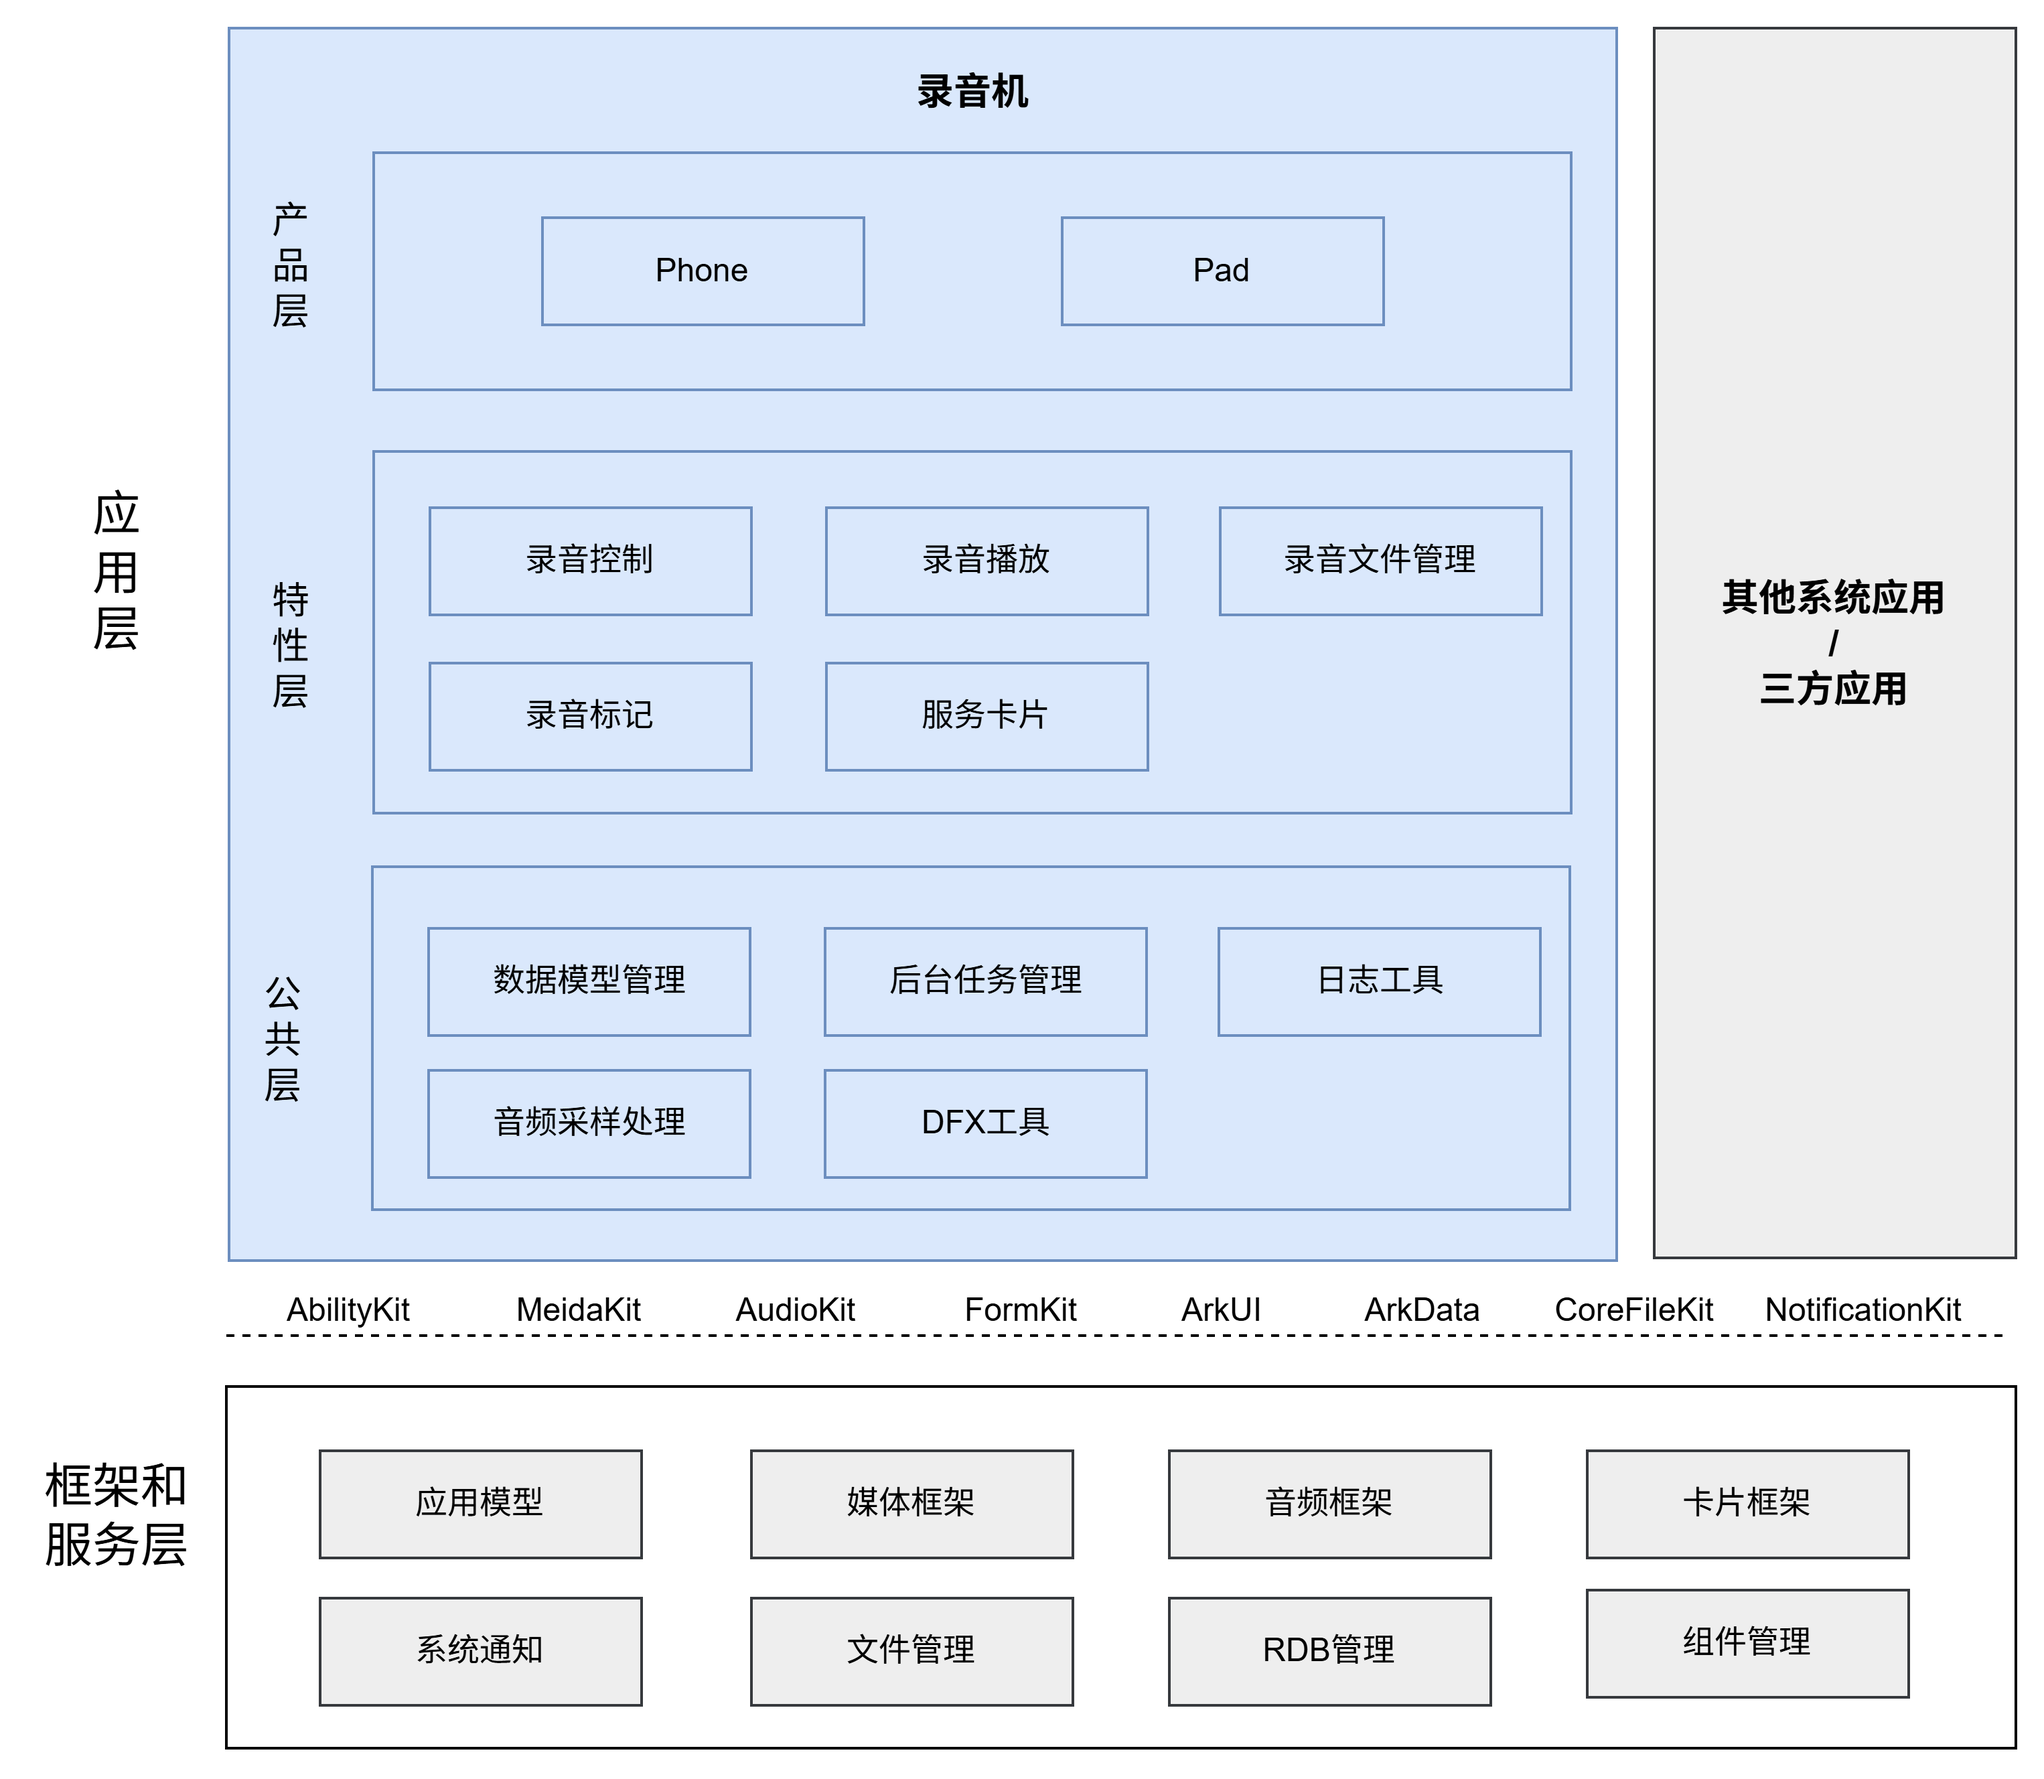
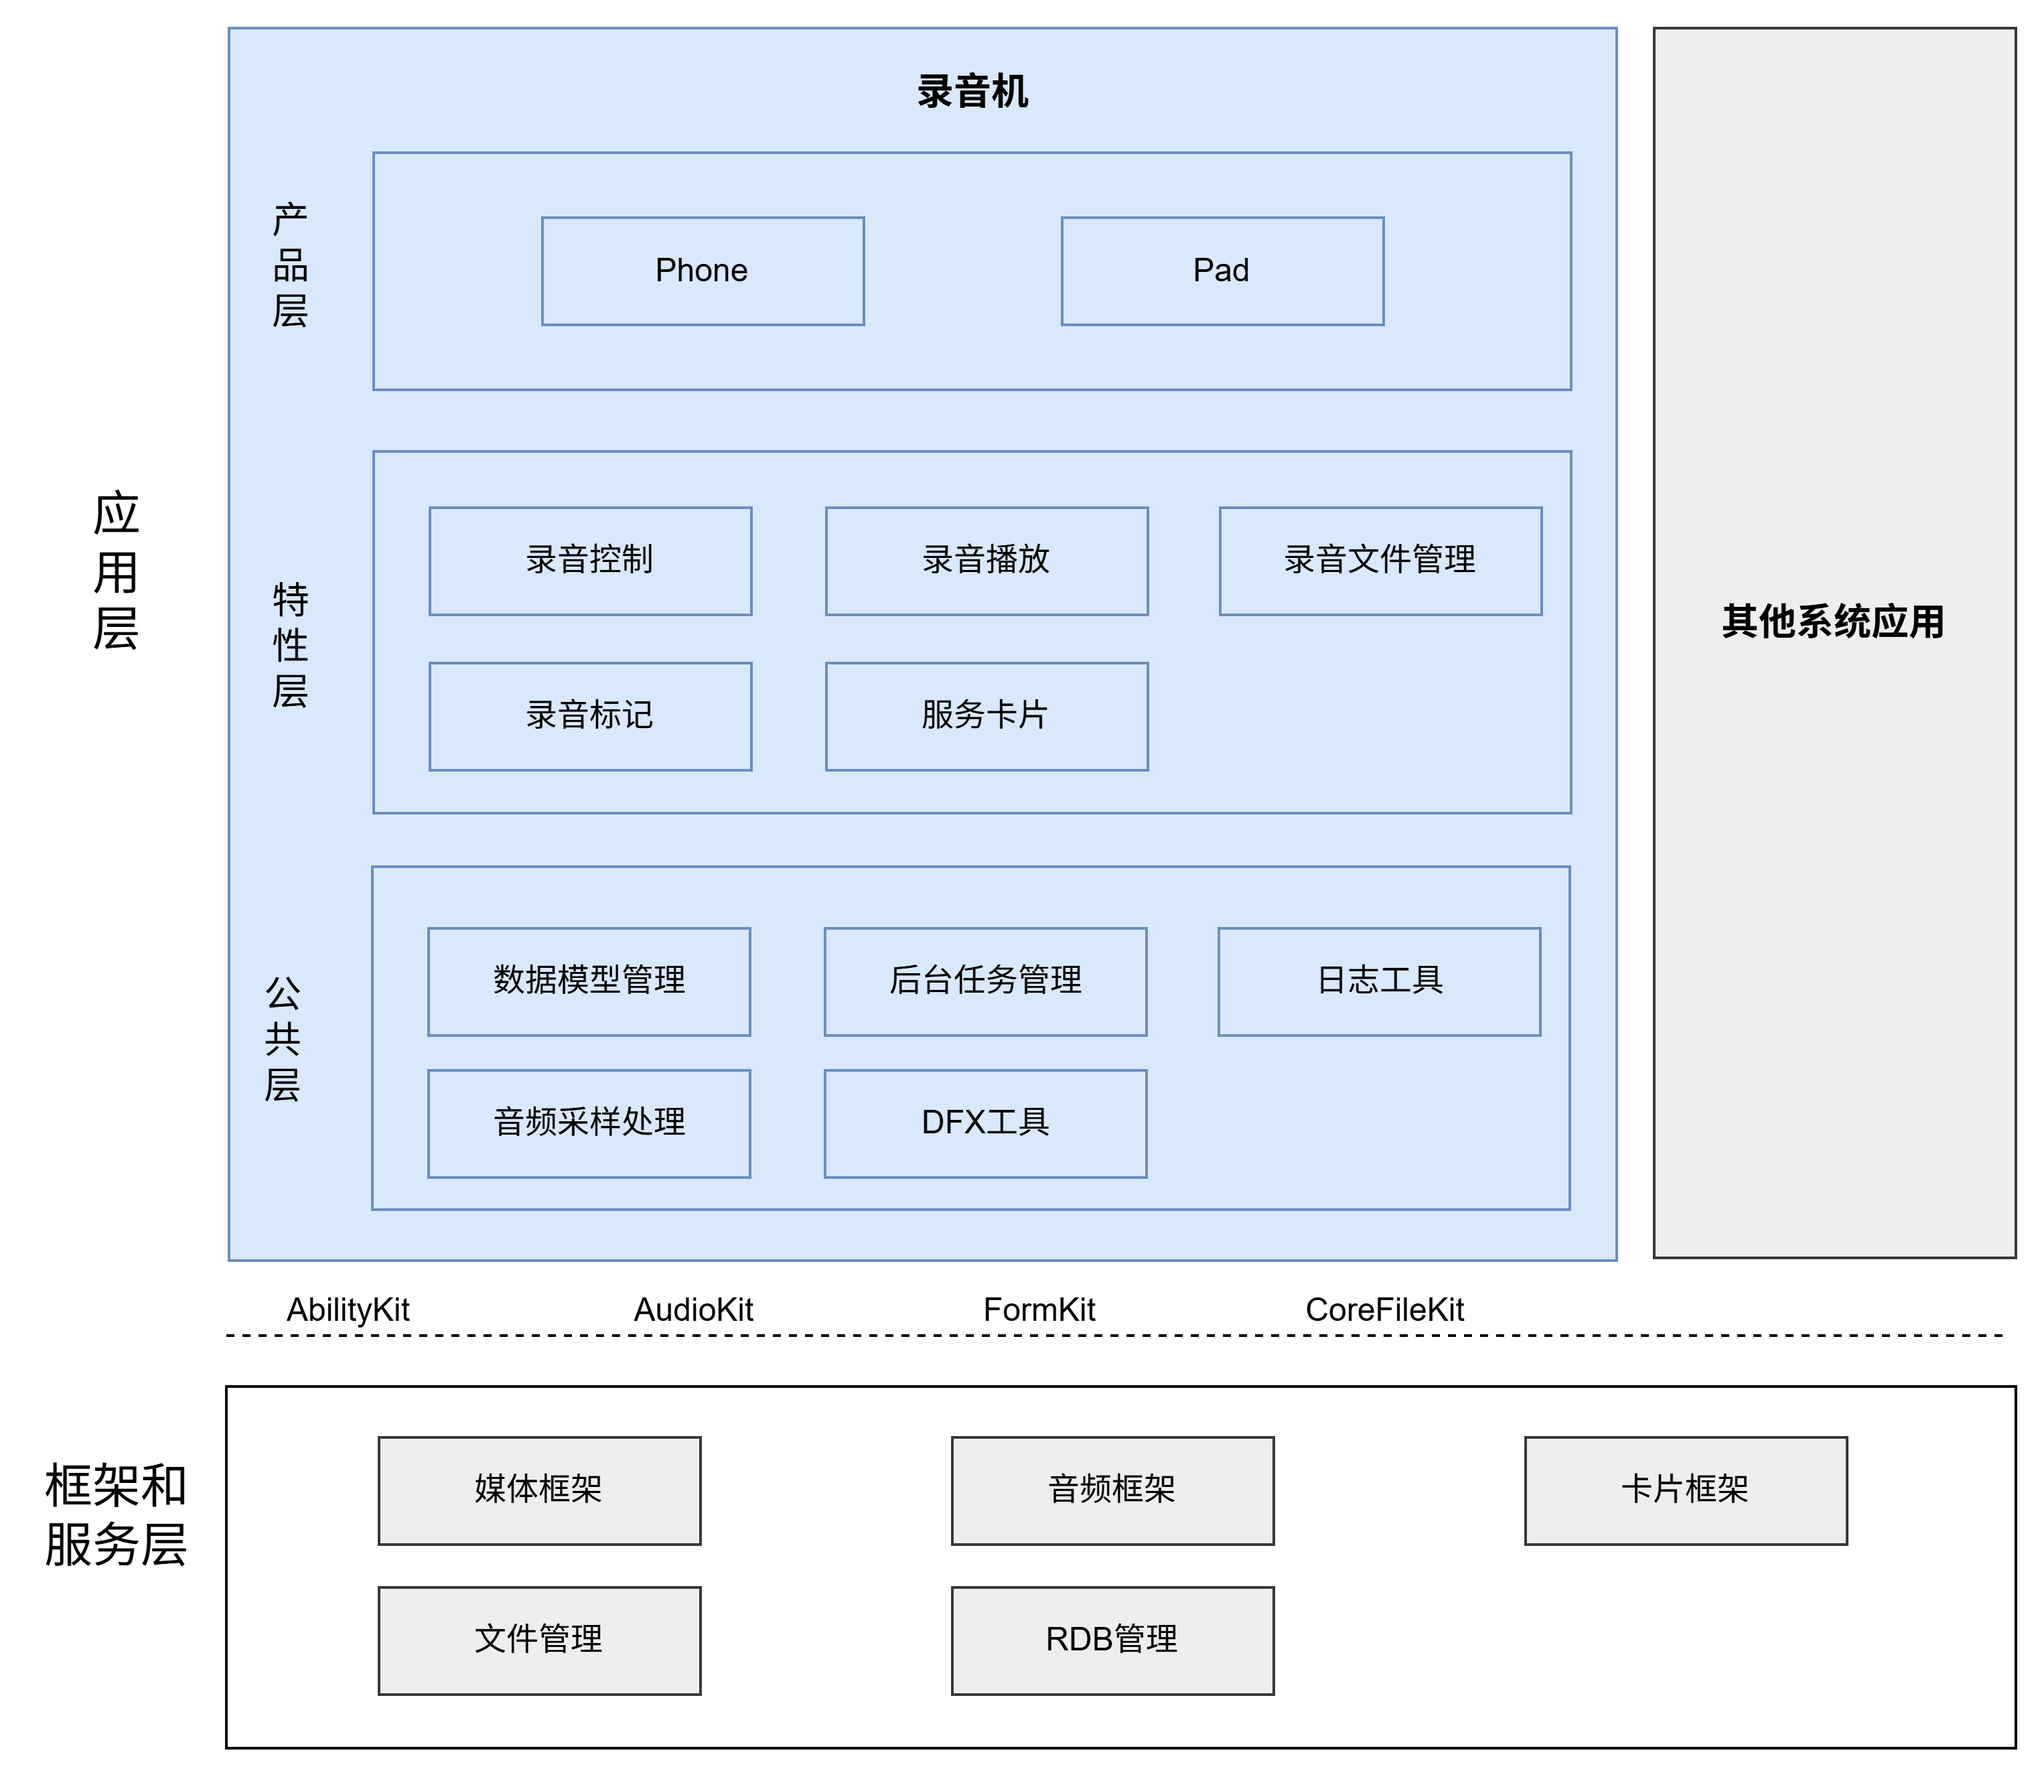
修改README_zh

diff --git a/README_zh.md b/README_zh.md
@@ -2,7 +2,7 @@
 
 ## 简介
 
-**录音机**（包名：`com.ohos.soundrecorder`）是 OpenHarmony 中预置的 **系统应用**，应用通过麦克风采集音频，提供录音控制、录音播放、录音文件管理、录音标记等能力，并适配手机、平板设备形态。
+**录音机**（包名：`com.ohos.soundrecorder`）是 OpenHarmony 中预置的 **系统应用**，应用通过麦克风采集音频，提供录音控制、录音播放、录音文件管理、录音标记、服务卡片能力，并适配手机、平板设备形态。
 
 本应用为系统预置应用，用户可从桌面图标、锁屏入口或服务卡片进入录音机。
 
@@ -20,7 +20,6 @@
 
 **录音文件管理** 
 - 提供录音、最近删除等分类视图。
-- 设备具备通话录音能力时，可展示与管理通话录音文件。
 - 支持搜索、排序、多选、左滑快捷操作、滑动多选。
 - 支持重命名、查看详情、删除与恢复。
 
@@ -48,25 +47,25 @@
 
 ### 应用层分层设计
 
-整体可划分为产品层（Ability / 首页 / 卡片入口）、特性层（录音机业务）、公共层（模型 / 工具）：
+整体可划分为产品层、特性层、公共层：
 
-| 层次   | 主要目录 / 组件 | 说明                                       |
-|------| -------------- |------------------------------------------|
-| 产品层 | `product` | 系统交互入口，包括屏幕组件、零层界面、产品配置等，支持手机、平板形态       |
-| 特性层 | `feature/recorder`、`feature/database_manager`、`feature/file_manager`、`feature/recorderFA` | 录音机业务，包括录音控制、录音播放、录音文件管理、录音标记、服务卡片       |
-| 公共层 | `common` | 公共基础能力，包括数据模型管理、后台任务管理、日志工具、音频采样处理、DFX工具 |
+| 层次   | 主要目录 / 组件 | 说明                                     |
+|------| -------------- |----------------------------------------|
+| 产品层 | `product` | 支持手机、平板形态       |
+| 特性层 | `feature/recorder`、`feature/database_manager`、`feature/file_manager`、`feature/recorderFA` | 录音控制、录音播放、录音文件管理、录音标记、服务卡片       |
+| 公共层 | `common` | 数据模型管理、后台任务管理、日志工具、音频采样处理、DFX工具 |
 
 **特性层模块说明**：
 
-| 核心能力   | 模块       | 说明        |
-|--------|-----------------|---------------------------|
+| 核心能力   | 模块       | 说明                      |
+|--------|-----------------|-------------------------|
 | 录音控制   | RecordingPage, RecordManager, BaseViewModel, AudioSDKManager     | 录音状态机、音频采集、波形展示         |
 | 录音播放   | RecordPlayPage, PlayManager, AvSessionManager, MediaController	  | 播放控制、AVSession媒体会话、倍速播放 |
-| 录音文件管理 | AudioRecordListComponent, DatabaseManager, FileManager, RecordWatcher | 列表/搜索/排序/最近删除           |
+| 录音文件管理 | AudioRecordListComponent, DatabaseManager, FileManager, RecordWatcher | 录音列表/最近删除/搜索/排序         |
 | 录音标记   | MarkComponent, MarkListComponent    | 添加/编辑/跳转标记              |
 | 服务卡片   | FormAbility,recorderFA   | 卡片状态同步                  |
 
-**与其他系统应用/三方应用的关系**：
+### 与其他应用的关系
 
 | 项目          | 说明                                                      |
 |-------------|---------------------------------------------------------|
@@ -76,27 +75,12 @@
 | 支持的 Want 参数 | 通过 ohos.aafwk.param.callerBundleName 参数判断，目前支持联系人、桌面、锁屏 |
 | 跨进程服务       | 通过 RecorderDataRequestService 提供 RPC 数据请求服务，仅系统内部进程可调用  |
 
-
-### 框架和服务层依赖
-本应用依赖的 Kit 与系统能力详见下表。
-
-| 使用的Kit / 系统能力 | 用途                            |
-|-----------|-------------------------------|
-| AbilityKit | Stage模型Ability生命周期管理          |
-| ArkUI     | 应用组件、事件、动效、状态管理               |
-| FormKit   | 服务卡片数据更新与状态同步                 |
-| MediaKit  | AVRecorder 录音采集、AVPlayer 录音播放 |
-| AudioKit  | AVSession 媒体会话控制、音频路由管理       |
-| ArkData   | 关系型数据库（RDB）读写录音、标记、最近删除等表     |
-| NotificationKit | 录音中实况窗 / 通知栏控制                |
-| FileManagement | 录音文件管理                        |
-
 ## 编译构建
 
 本工程为多模块 HAP 应用工程，使用 Hvigor 构建，产物为 `com.ohos.soundrecorder` 系统应用包。
 
 ### 环境要求
-- OpenHarmony / HarmonyOS SDK（本工程 `compileSdkVersion` 为 23，`compatibleSdkVersion` / `targetSdkVersion` 为 20）
+- OpenHarmony SDK（本工程 `compileSdkVersion` 为 23，`compatibleSdkVersion` / `targetSdkVersion` 为 20）
 - DevEco Studio 或命令行 Hvigor 工具链
 - 系统签名证书（见 `signature/`）
 
@@ -195,14 +179,14 @@ hvigorw assembleHap
 
 常用修改入口：
 
-| 目标           | 路径 |
-|--------------| ---- |
-| 应用首页         | `product/phone/src/main/ets/pages/Index.ets` |
-| 录音页          | `feature/recorder/src/main/ets/pages/RecordingPage.ets` |
-| 播放详情页        | `feature/recorder/src/main/ets/pages/RecordPlayPage.ets` |
-| 列表 / 侧栏 / 波形 | `feature/recorder/src/main/ets/components/` |
-| 服务卡片         | `product/phone/src/main/ets/widget/pages/`、`feature/recorderFA/` |
-| 通用弹框         | `common/src/main/ets/components/` |
+| 目标             | 路径 |
+|----------------| ---- |
+| 应用首页           | `product/phone/src/main/ets/pages/Index.ets` |
+| 录音页            | `feature/recorder/src/main/ets/pages/RecordingPage.ets` |
+| 播放详情页          | `feature/recorder/src/main/ets/pages/RecordPlayPage.ets` |
+| 列表 / 侧栏 / 波形组件 | `feature/recorder/src/main/ets/components/` |
+| 服务卡片           | `product/phone/src/main/ets/widget/pages/`、`feature/recorderFA/` |
+| 通用弹框           | `common/src/main/ets/components/` |
 
 ### 新特性能力的开发
 
@@ -313,23 +297,18 @@ soundrecorder
 - **权限**：录音机所需的主要权限如下（见 `product/phone/src/main/module.json5`）
 
   | 权限 | 授权方式 | 使用场景 |
-  |------|---------|---------|
+  |------|---------|--------|
   | ohos.permission.MICROPHONE | 用户授权 | 录音音频采集 |
   | ohos.permission.KEEP_BACKGROUND_RUNNING | 系统授权 | 录音后台连续任务保活 |
   | ohos.permission.SET_UNREMOVABLE_NOTIFICATION | 系统授权 | 录音中显示不可移除通知 |
-  | ohos.permission.ACCESS_NOTIFICATION_POLICY | 系统授权 | 免打扰策略控制 |
   | ohos.permission.GET_TELEPHONY_STATE | 系统授权 | 通话状态监听，来电自动暂停录音 |
   | ohos.permission.MODIFY_AUDIO_SETTINGS | 系统授权 | 音频路由设置 |
-  | ohos.permission.FILE_ACCESS_PERSIST | 系统授权 | 录音文件持久访问 |
   | ohos.permission.FILE_ACCESS_MANAGER | 系统授权 | 文件访问管理 |
-  | ohos.permission.PUBLISH_SYSTEM_COMMON_EVENT | 系统授权 | 系统公共事件发布 |
-  | ohos.permission.VIBRATE | 系统授权 | 录音操作触觉反馈 |
   | ohos.permission.GET_BUNDLE_INFO | 系统授权 | 获取应用包信息 |
   | ohos.permission.START_ABILITIES_FROM_BACKGROUND | 系统授权 | 后台拉起Ability |
 
-- 支持的音频格式：m4a、wav、amr
-- 形态适配：分屏、悬浮窗、平板等会改变 Navigation / Sheet / 侧栏布局，修改 UI 时需覆盖多形态验证
-- 本仓定位为应用层实现，不包含底层音频驱动 / 编解码器源码
+- **支持的音频格式**：m4a、wav
+- **形态适配**：悬浮窗、平板等会改变 Navigation / Sheet / 侧栏布局，修改 UI 时需覆盖多形态验证
 
 ## 参与贡献
 
